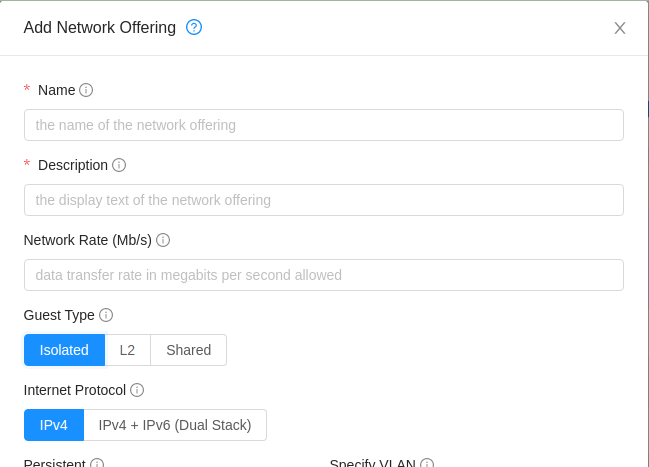
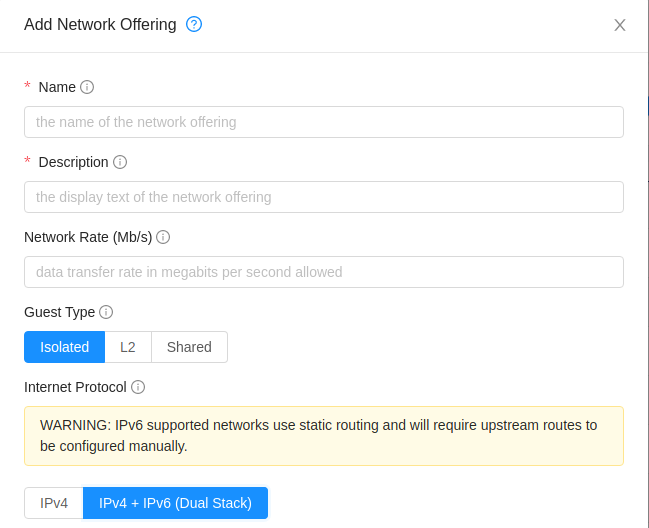
change

diff --git a/source/plugins/ipv6.rst b/source/plugins/ipv6.rst
@@ -217,6 +217,8 @@ Both VR for such networks and the guest VMs using these networks obtain a SLAAC 
 
 Here's the sequence of events when IPv6 is used:
 
+#. The administrator sets global configuration - ``network.offering.ipv6.enabled`` to **true**.
+
 #. The administrator adds a public IPv6 range in an advanced zone.
 
 #. The administrator adds an IPv6 prefix for guest traffic type for the zone.
@@ -270,6 +272,8 @@ Alternatively, ``createGuestNetworkIpv6Prefix`` API can be used to add a new gue
 
 Adding Network Offering with IPv6 Support
 #########################################
+
+To create an IPv6 suported network offering, global configuration - ``network.offering.ipv6.enabled`` must be set to **true**.
 
 With 4.17.0, a new paramter - ``internetprotocol`` has been added to the ``createNetworkOffering`` API which can be used to create a network offering with IPv6 support by using the value dualstack.
 Corresponding option has also been provided in the UI form creating network offering:
